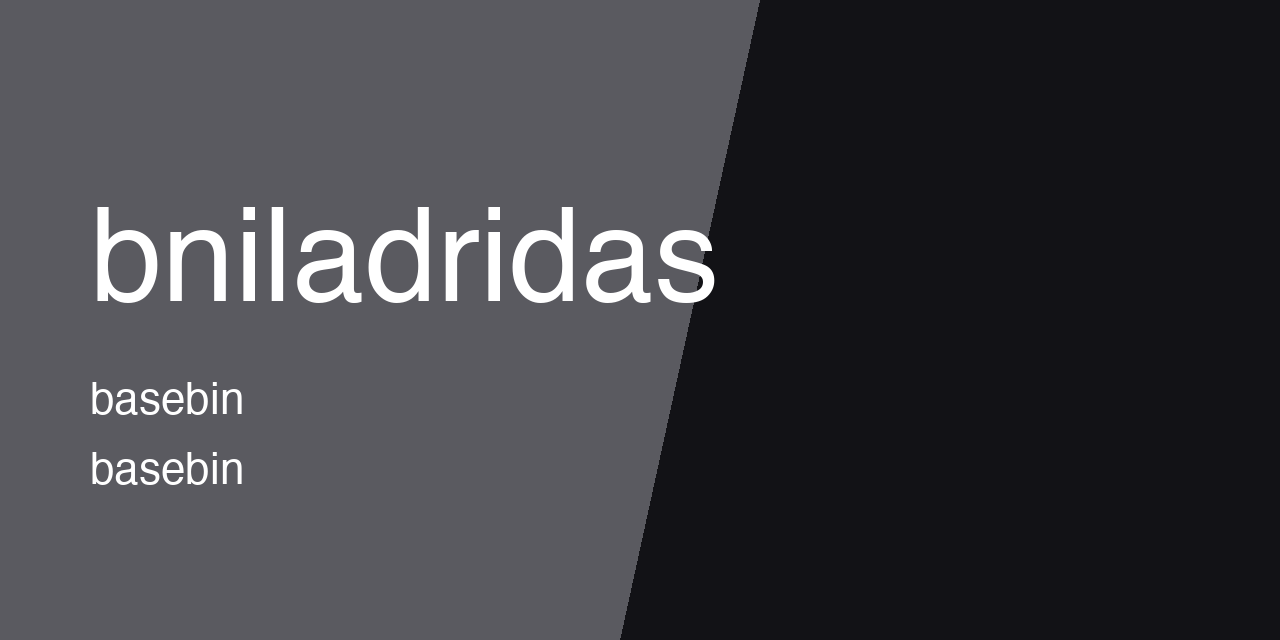
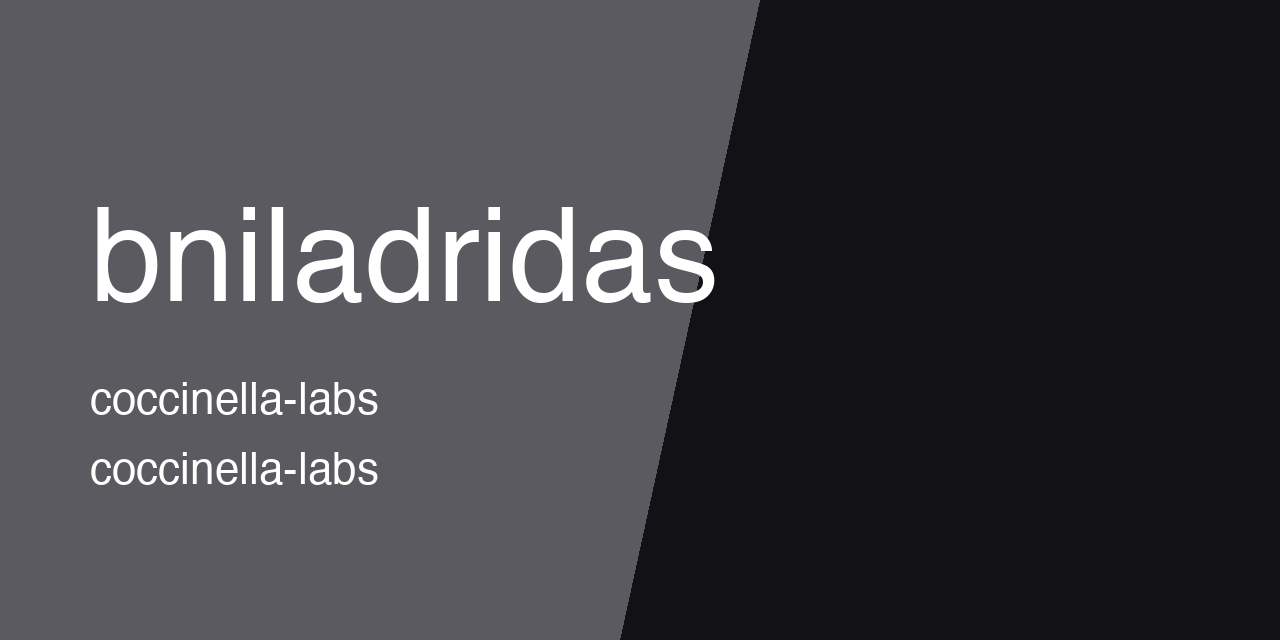
[docs] move thumbnail to coccinella-labs

Changed region(s): [[0.0625, 0.5938, 0.3125, 0.6562], [0.0625, 0.7188, 0.3125, 0.7812]]

diff --git a/README.md b/README.md
@@ -1,5 +1,5 @@
 <p align="center">
-  <img src="https://raw.githubusercontent.com/basebin/bniladridas/main/.github/assets/thumbnail.png" alt="bniladridas" width="100%">
+  <img src="https://raw.githubusercontent.com/Coccinella-Labs/bniladridas/main/.github/assets/thumbnail.png" alt="bniladridas" width="100%">
 </p>
 
 # Niladri Das &nbsp;&nbsp;&nbsp; <a href="https://palmshed.github.io/nuntius"><kbd><img src="https://github.com/palmshed/.github/raw/main/profile/mark.svg" height="15" />&nbsp;Open</kbd></a>
